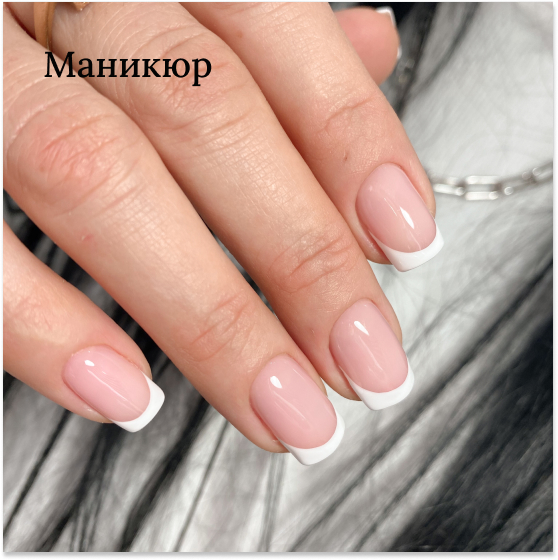
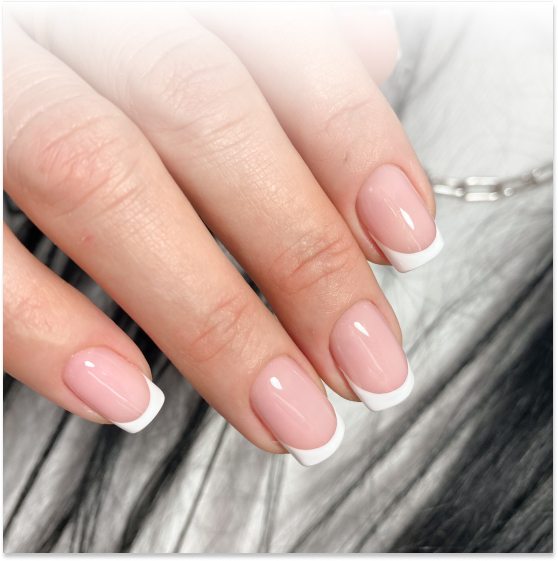
up

Changed region(s): [[0.0, 0.0, 1.0, 0.3339], [0.0305, 0.425, 0.0609, 0.4554]]

diff --git a/app/css/style.min.css b/app/css/style.min.css
@@ -1,1 +1,1 @@
-.service__title,.menu__title,.header__title{font-family:"Lora",sans-serif}.footer__bottom-text,.menu__link,.header__btn{font-family:"Open Sans",sans-serif}html{-webkit-box-sizing:border-box;box-sizing:border-box}*,*::after,*::before{-webkit-box-sizing:inherit;box-sizing:inherit}ul[class],ol[class]{padding:0}body,h1,h2,h3,h4,h5,h6,p,ul,ol,li,figure,figcaption,blockquote,dl,dd{margin:0}ul[class]{list-style:none}img{max-width:100%;display:block}input,button,textarea,select{font:inherit}a{text-decoration:none;color:inherit}html,body{height:100%}.wrapper{display:-webkit-box;display:-ms-flexbox;display:flex;-webkit-box-orient:vertical;-webkit-box-direction:normal;-ms-flex-direction:column;flex-direction:column;min-height:100%}.main{-webkit-box-flex:1;-ms-flex:1 0 auto;flex:1 0 auto}.footer{-webkit-box-flex:0;-ms-flex:0 0 auto;flex:0 0 auto}.container{max-width:1400px;margin:0 auto;padding:0 20px}.slick-dots{display:-webkit-box;display:-ms-flexbox;display:flex;-webkit-box-pack:center;-ms-flex-pack:center;justify-content:center;-webkit-box-align:center;-ms-flex-align:center;align-items:center}.slick-dots li{margin:13px;margin-top:45px;margin-bottom:120px}.slick-dots button{background-color:#d4eaff;border:none;width:10px;height:10px;border-radius:50%;padding:0;font-size:0;cursor:pointer}.slick-dots li.slick-active button{background-color:#fd6655;width:12px;height:12px}.test{background:coral;color:aqua}.header{background-image:url(../images/header_bg.jpg);background-position:center;background-repeat:no-repeat;background-size:cover}.header__inner{display:-webkit-box;display:-ms-flexbox;display:flex;-webkit-box-orient:vertical;-webkit-box-direction:normal;-ms-flex-direction:column;flex-direction:column;min-height:100vh}.header__top-name{padding:5px 0 5px}.header__top{background:rgba(3,3,3,.8);display:-webkit-box;display:-ms-flexbox;display:flex;-webkit-box-align:center;-ms-flex-align:center;align-items:center;-webkit-box-pack:center;-ms-flex-pack:center;justify-content:center}.header__content{text-align:center}.header__biglogo-img{margin:0 auto;-webkit-box-align:center;-ms-flex-align:center;align-items:center;margin-top:56px;margin-bottom:115px}.header__title{color:#030303;font-size:36px;line-height:46px;font-weight:500;min-width:460px;max-width:570px;margin-bottom:80px;text-align:center;-webkit-box-align:center;-ms-flex-align:center;align-items:center}.header__btn{min-width:254px;height:54px;background:#030303;-webkit-box-shadow:0px 4px 4px rgba(0,0,0,.25);box-shadow:0px 4px 4px rgba(0,0,0,.25);border-radius:4px;border:none;color:#fff;font-size:16px;line-height:24px;font-weight:700;margin-bottom:80px;cursor:pointer;-webkit-transition:1s;-o-transition:1s;transition:1s}.header__btn:hover{background-color:#fffbfa;color:#030303;opacity:.89}.menu__list{display:-webkit-box;display:-ms-flexbox;display:flex;margin-left:224px}.menu__list-item{margin:0 auto;margin-right:153px}.menu__link{color:#fff;font-size:16px;line-height:21px;font-weight:700}.menu__title{margin-right:315px;color:#030303;font-size:28px;line-height:33px;font-weight:600;text-transform:uppercase}.menu__img{margin-left:42px}.service__title{margin:80px 0 64px;text-align:center;font-weight:500;font-size:50px;line-height:60px;color:#030303}.service__items{display:-ms-grid;display:grid;-ms-grid-columns:(1fr)[2];grid-template-columns:repeat(2, 1fr);grid-row-gap:48px;grid-column-gap:72px;margin-bottom:80px}.service__item img{-o-object-fit:cover;object-fit:cover;width:100%;height:100%}.footer__menu{padding:18.5px}.footer__menu li:first-child{margin-left:90px}.footer__bottom{display:-webkit-box;display:-ms-flexbox;display:flex;-webkit-box-pack:center;-ms-flex-pack:center;justify-content:center;background:rgba(3,3,3,.8)}.footer__bottom-text{font-size:16px;line-height:24px;color:#fff;padding-bottom:16px}.yButton{display:none}
+.service h2,.service__title,.menu__title,.header__title{font-family:"Lora",sans-serif}.footer__bottom-text,.menu__link,.header__btn{font-family:"Open Sans",sans-serif}html{-webkit-box-sizing:border-box;box-sizing:border-box}*,*::after,*::before{-webkit-box-sizing:inherit;box-sizing:inherit}ul[class],ol[class]{padding:0}body,h1,h2,h3,h4,h5,h6,p,ul,ol,li,figure,figcaption,blockquote,dl,dd{margin:0}ul[class]{list-style:none}img{max-width:100%;display:block}input,button,textarea,select{font:inherit}a{text-decoration:none;color:inherit}html,body{height:100%}.wrapper{display:-webkit-box;display:-ms-flexbox;display:flex;-webkit-box-orient:vertical;-webkit-box-direction:normal;-ms-flex-direction:column;flex-direction:column;min-height:100%}.main{-webkit-box-flex:1;-ms-flex:1 0 auto;flex:1 0 auto}.footer{-webkit-box-flex:0;-ms-flex:0 0 auto;flex:0 0 auto}.container{max-width:1400px;margin:0 auto;padding:0 20px}.slick-dots{display:-webkit-box;display:-ms-flexbox;display:flex;-webkit-box-pack:center;-ms-flex-pack:center;justify-content:center;-webkit-box-align:center;-ms-flex-align:center;align-items:center}.slick-dots li{margin:13px;margin-top:45px;margin-bottom:120px}.slick-dots button{background-color:#d4eaff;border:none;width:10px;height:10px;border-radius:50%;padding:0;font-size:0;cursor:pointer}.slick-dots li.slick-active button{background-color:#fd6655;width:12px;height:12px}.test{background:coral;color:aqua}.header{background-image:url(../images/header_bg.jpg);background-position:center;background-repeat:no-repeat;background-size:cover}.header__inner{display:-webkit-box;display:-ms-flexbox;display:flex;-webkit-box-orient:vertical;-webkit-box-direction:normal;-ms-flex-direction:column;flex-direction:column;min-height:100vh}.header__top-name{padding:5px 0 5px}.header__top{background:rgba(3,3,3,.8);display:-webkit-box;display:-ms-flexbox;display:flex;-webkit-box-align:center;-ms-flex-align:center;align-items:center;-webkit-box-pack:center;-ms-flex-pack:center;justify-content:center}.header__content{text-align:center}.header__biglogo-img{margin:0 auto;-webkit-box-align:center;-ms-flex-align:center;align-items:center;margin-top:56px;margin-bottom:115px}.header__title{color:#030303;font-size:36px;line-height:46px;font-weight:500;min-width:460px;max-width:570px;margin-bottom:80px;text-align:center;-webkit-box-align:center;-ms-flex-align:center;align-items:center}.header__btn{min-width:254px;height:54px;background:#030303;-webkit-box-shadow:0px 4px 4px rgba(0,0,0,.25);box-shadow:0px 4px 4px rgba(0,0,0,.25);border-radius:4px;border:none;color:#fff;font-size:16px;line-height:24px;font-weight:700;margin-bottom:80px;cursor:pointer;-webkit-transition:1s;-o-transition:1s;transition:1s}.header__btn:hover{background-color:#fffbfa;color:#030303;opacity:.89}.menu__list{display:-webkit-box;display:-ms-flexbox;display:flex;margin-left:224px}.menu__list-item{margin:0 auto;margin-right:153px}.menu__link{color:#fff;font-size:16px;line-height:21px;font-weight:700}.menu__title{margin-right:315px;color:#030303;font-size:28px;line-height:33px;font-weight:600;text-transform:uppercase}.menu__img{margin-left:42px}.service__title{margin:80px 0 64px;text-align:center;font-weight:500;font-size:50px;line-height:60px;color:#030303}.service__items{display:-ms-grid;display:grid;-ms-grid-columns:(1fr)[2];grid-template-columns:repeat(2, 1fr);grid-row-gap:48px;grid-column-gap:72px;margin-bottom:80px}.service__item{position:relative}.service__item img{-o-object-fit:cover;object-fit:cover;width:100%;height:100%}.service h2{display:inline-block;font-weight:500;font-size:36px;line-height:46px;color:#030303;position:absolute;top:30px;left:40px;width:100%}.footer__menu{padding:18.5px}.footer__menu li:first-child{margin-left:90px}.footer__bottom{display:-webkit-box;display:-ms-flexbox;display:flex;-webkit-box-pack:center;-ms-flex-pack:center;justify-content:center;background:rgba(3,3,3,.8)}.footer__bottom-text{font-size:16px;line-height:24px;color:#fff;padding-bottom:16px}.yButton{display:none}

diff --git a/app/index.html b/app/index.html
@@ -4,7 +4,7 @@
     <meta charset="UTF-8" />
     <meta name="viewport" content="width=device-width, initial-scale=1.0" />
     <title>Nail Studio</title>
-    <link rel="shortcut icon" href="images/favicon.ico" type="image/x-icon" />
+    <link rel="shortcut icon" href="images/Logo.png" type="image/x-icon" />
     <link rel="preconnect" href="https://fonts.googleapis.com" />
     <link rel="preconnect" href="https://fonts.gstatic.com" crossorigin />
     <link
@@ -72,15 +72,19 @@
           <div class="service__items">
             <a class="service__item" href="#">
               <img src="images/servise/Manicure.jpg" alt="Brows" />
+              <h2>Маникюр</h2>
             </a>
             <a class="service__item" href="#">
               <img src="images/servise/Pedicure.jpg" alt="Pedicure" />
+              <h2>Педекюр</h2>
             </a>
             <a class="service__item" href="#">
               <img src="images/servise/Brows.jpg" alt="Browsges" />
+              <h2>Брови</h2>
             </a>
             <a class="service__item" href="#">
               <img src="images/servise/Lashes.jpg" alt="Lashes" />
+              <h2>Ресницы</h2>
             </a>
           </div>
         </div>

diff --git a/app/scss/style.scss b/app/scss/style.scss
@@ -123,10 +123,26 @@
     grid-column-gap: 72px;
     margin-bottom: 80px;
   }
-  &__item img {
-    object-fit: cover;
+  &__item {
+    position: relative;
+    img {
+      object-fit: cover;
+      width: 100%;
+      height: 100%;
+    }
+  }
+
+  h2 {
+    display: inline-block;
+    @extend %title-font;
+    font-weight: 500;
+    font-size: 36px;
+    line-height: 46px;
+    color: $default;
+    position: absolute;
+    top: 30px;
+    left: 40px;
     width: 100%;
-    height: 100%;
   }
 }
 
